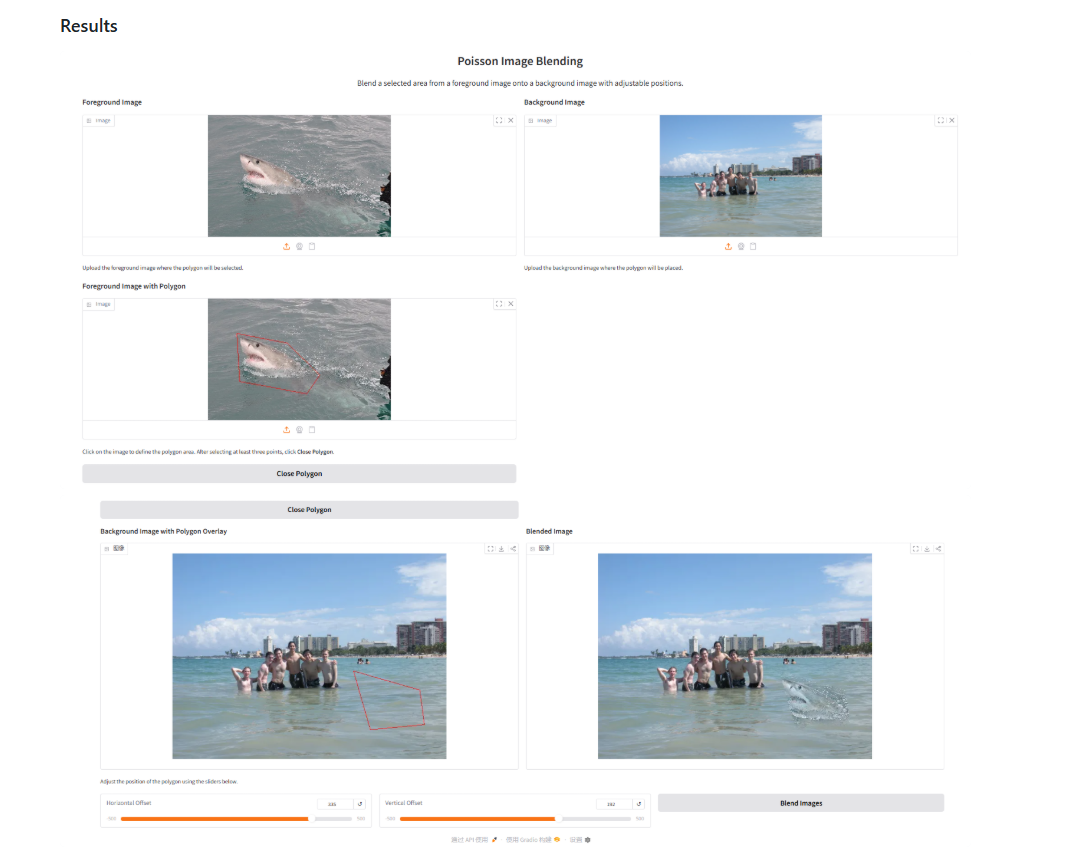
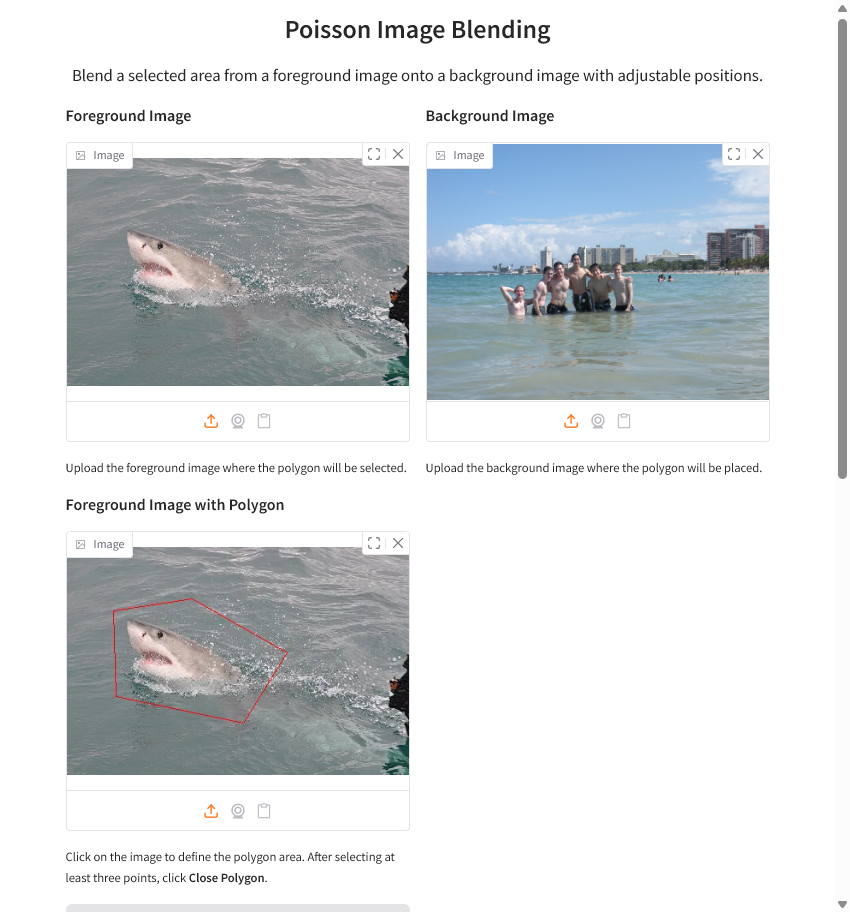
Finalize homework2 README results

diff --git a/homework2/README.md b/homework2/README.md
@@ -73,9 +73,13 @@ python train.py --train-list train_list2.txt --val-list val_list2.txt --epochs 3
 
 #### 结果展示
 
-**融合结果：water 样例（Gradio 运行截图）**
+**water 样例：输入图像与多边形选区**
 
-<img src="pics/poisson_result1.png" alt="Poisson Blending Result 1" width="800">
+<img src="pics/poisson_result1.png" alt="Poisson Blending Inputs and Polygon" width="800">
+
+**water 样例：背景选区与融合结果**
+
+<img src="pics/poisson_result2.png" alt="Poisson Blending Overlay and Result" width="800">
 
 ---
 
@@ -103,7 +107,29 @@ python train.py --train-list train_list2.txt --val-list val_list2.txt --epochs 3
 [ 输入图像 | 目标图像 | 模型输出 ]
 ```
 
-下面展示的是更大数据集 `edges2shoes` 上的结果。之前仓库中的 `train_2results/`、`val_2results/` 生成时间早于完整 64->1024 通道 U-Net 的修改时间，因此效果更像小网络训练结果；这里使用远端 `Pix2Pix/train_results/` 和 `Pix2Pix/val_results/` 中完整 U-Net 训练后的结果。
+下面分别展示作业要求的小数据集 `facades` 结果，以及额外完成的更大数据集 `edges2shoes` 结果。每组都选取早期 epoch 和后期 epoch 进行对比，展示模型训练后的改进。
+
+#### facades 小数据集结果（作业要求）
+
+**训练集结果（早期 epoch）：**
+
+<img src="./train_results/epoch_0/result_1.png" alt="Facades Train Early" width="800">
+
+**训练集结果（后期 epoch）：**
+
+<img src="./train_results/epoch_295/result_1.png" alt="Facades Train Late" width="800">
+
+**验证集结果（早期 epoch）：**
+
+<img src="./val_results/epoch_0/result_1.png" alt="Facades Val Early" width="800">
+
+**验证集结果（后期 epoch）：**
+
+<img src="./val_results/epoch_295/result_1.png" alt="Facades Val Late" width="800">
+
+#### edges2shoes 大数据集结果（额外实验）
+
+为了进一步验证模型在更大图像翻译数据集上的效果，额外使用 `edges2shoes` 数据集进行了训练与结果保存。
 
 **训练集结果（早期 epoch）：**
 
